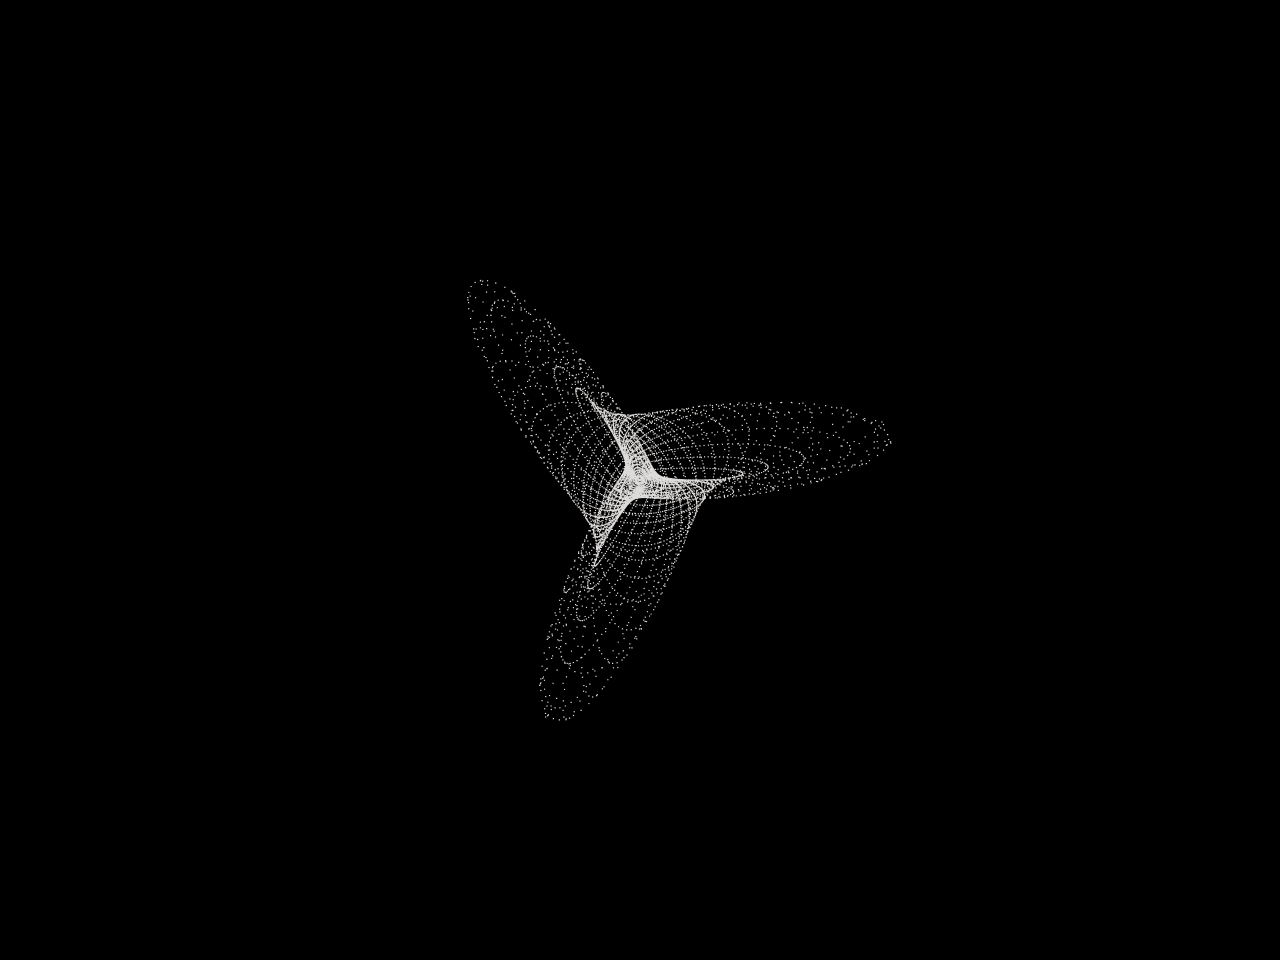
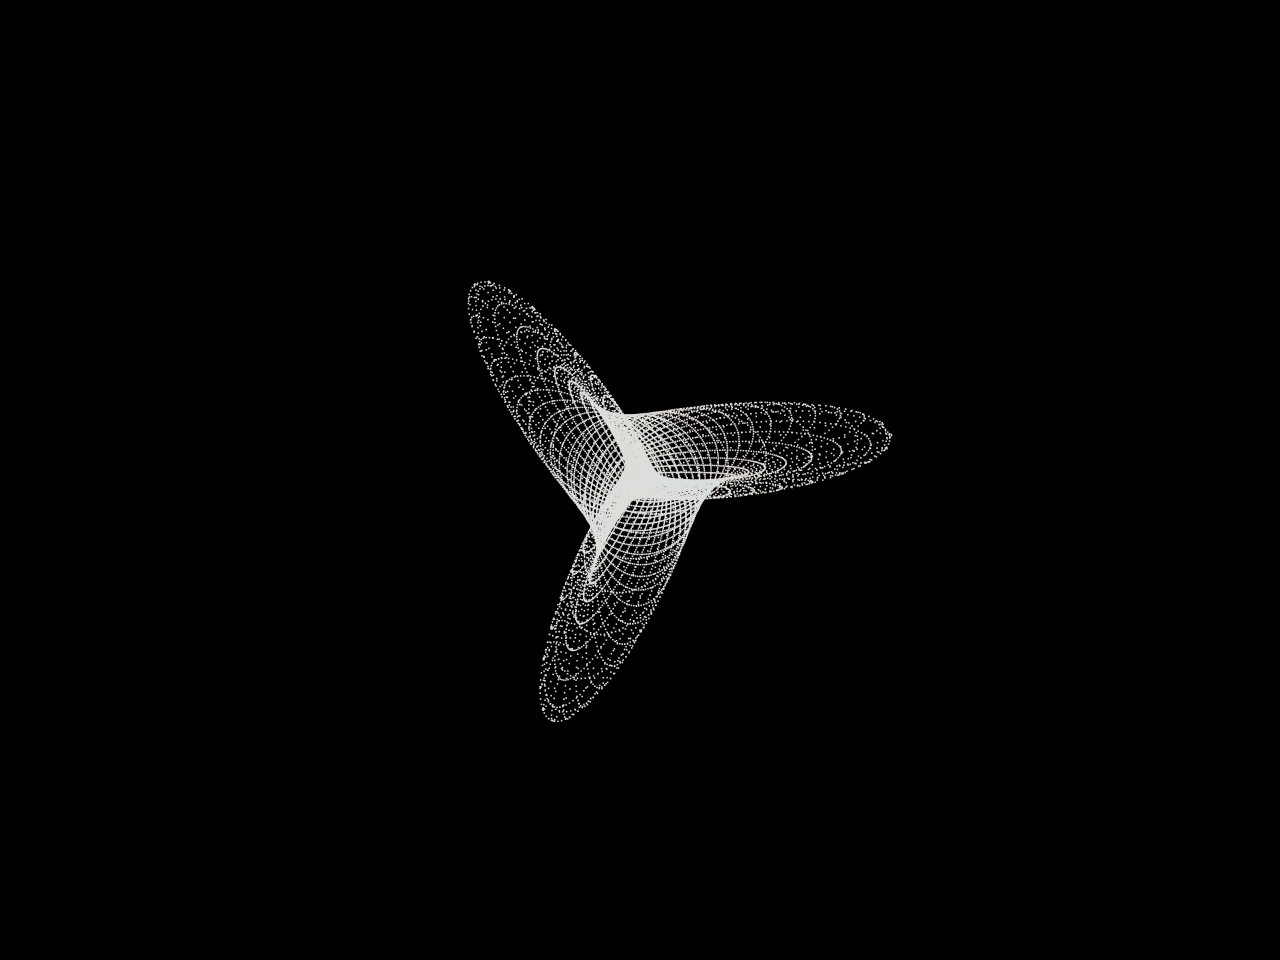
Dense Boy jury lines/isolines with UV ribbon colors.

Changed region(s): [[0.3438, 0.2812, 0.7188, 0.75]]

diff --git a/packages/frontend/src/utils/boySurface.ts b/packages/frontend/src/utils/boySurface.ts
@@ -148,6 +148,22 @@ function xyzColors(positions: Float32Array): Float32Array {
 	return colors
 }
 
+/** Coral → amber → teal along UV (punchier than xyz for points/lines). */
+function writeUvRibbon(colors: Float32Array, i: number, uN: number, vN: number) {
+	const t = Math.min(1, Math.max(0, 0.55 * uN + 0.45 * vN))
+	if (t < 0.5) {
+		const s = t / 0.5
+		colors[i] = 0.98 - 0.18 * s
+		colors[i + 1] = 0.32 + 0.5 * s
+		colors[i + 2] = 0.28 + 0.12 * s
+		return
+	}
+	const s = (t - 0.5) / 0.5
+	colors[i] = 0.8 - 0.58 * s
+	colors[i + 1] = 0.82 + 0.12 * s
+	colors[i + 2] = 0.4 + 0.52 * s
+}
+
 export function buildBoyMesh(): BoyMesh {
 	const uCount = U_RES + 1
 	const vCount = V_RES + 1
@@ -202,53 +218,67 @@ export function sampleBoyCloud(nu = 96, nv = 96): BoyCloud {
  * Row-major UV scan as one polyline (legacy line trail).
  * Odd rows reverse so the strip snakes continuously.
  */
-export function sampleBoyScanline(nu = 120, nv = 80): BoyCloud {
+export function sampleBoyScanline(nu = 200, nv = 140): BoyCloud {
 	const count = nu * nv
 	const positions = new Float32Array(count * 3)
+	const colors = new Float32Array(count * 3)
 	let k = 0
 	for (let iv = 0; iv < nv; iv++) {
-		const v = (Math.PI * iv) / (nv - 1)
+		const vN = nv <= 1 ? 0 : iv / (nv - 1)
+		const v = Math.PI * vN
 		const reverse = iv % 2 === 1
 		for (let t = 0; t < nu; t++) {
 			const iu = reverse ? nu - 1 - t : t
-			const u = (Math.PI * iu) / (nu - 1)
+			const uN = nu <= 1 ? 0 : iu / (nu - 1)
+			const u = Math.PI * uN
 			const p = boyPoint(u, v)
-			positions[k++] = p.x
-			positions[k++] = p.y
-			positions[k++] = p.z
+			positions[k] = p.x
+			positions[k + 1] = p.y
+			positions[k + 2] = p.z
+			writeUvRibbon(colors, k, uN, vN)
+			k += 3
 		}
 	}
 	centerAndScale(positions, TARGET_R)
-	return { positions, colors: xyzColors(positions), count }
+	return { positions, colors, count }
 }
 
 /** Constant-u and constant-v curves as a dense point wire. */
-export function sampleBoyIsolines(nu = 36, nv = 36, samples = 128): BoyCloud {
+export function sampleBoyIsolines(nu = 56, nv = 56, samples = 220): BoyCloud {
 	const count = (nu + nv) * samples
 	const positions = new Float32Array(count * 3)
+	const colors = new Float32Array(count * 3)
 	let k = 0
 	for (let iu = 0; iu < nu; iu++) {
-		const u = (Math.PI * iu) / (nu - 1)
+		const uN = nu <= 1 ? 0 : iu / (nu - 1)
+		const u = Math.PI * uN
 		for (let s = 0; s < samples; s++) {
-			const v = (Math.PI * s) / (samples - 1)
+			const vN = samples <= 1 ? 0 : s / (samples - 1)
+			const v = Math.PI * vN
 			const p = boyPoint(u, v)
-			positions[k++] = p.x
-			positions[k++] = p.y
-			positions[k++] = p.z
+			positions[k] = p.x
+			positions[k + 1] = p.y
+			positions[k + 2] = p.z
+			writeUvRibbon(colors, k, uN, vN)
+			k += 3
 		}
 	}
 	for (let iv = 0; iv < nv; iv++) {
-		const v = (Math.PI * iv) / (nv - 1)
+		const vN = nv <= 1 ? 0 : iv / (nv - 1)
+		const v = Math.PI * vN
 		for (let s = 0; s < samples; s++) {
-			const u = (Math.PI * s) / (samples - 1)
+			const uN = samples <= 1 ? 0 : s / (samples - 1)
+			const u = Math.PI * uN
 			const p = boyPoint(u, v)
-			positions[k++] = p.x
-			positions[k++] = p.y
-			positions[k++] = p.z
+			positions[k] = p.x
+			positions[k + 1] = p.y
+			positions[k + 2] = p.z
+			writeUvRibbon(colors, k, uN, vN)
+			k += 3
 		}
 	}
 	centerAndScale(positions, TARGET_R)
-	return { positions, colors: xyzColors(positions), count }
+	return { positions, colors, count }
 }
 
 export function buildBryantBoyMesh(): BoyMesh {

diff --git a/packages/frontend/src/pages/misc/boy_jury_isolines.tsx b/packages/frontend/src/pages/misc/boy_jury_isolines.tsx
@@ -10,7 +10,9 @@ import { sampleBoyIsolines } from '../../utils/boySurface'
 const BoyJuryIsolines = () => {
 	const dispatch = useAppDispatch()
 	const seeded = useRef(false)
-	const { calculateParticlesToDraw, updateProgressUI, checkCompletion } = useAnimationState()
+	const { calculateParticlesToDraw, updateProgressUI, checkCompletion } = useAnimationState({
+		baseSpeed: 32000,
+	})
 
 	const datData = useMemo(
 		(): TDatData => ({
@@ -27,7 +29,7 @@ const BoyJuryIsolines = () => {
 		void dispatch(setData({}))
 	}, [datData, dispatch])
 
-	const cloud = useMemo(() => sampleBoyIsolines(36, 36, 128), [])
+	const cloud = useMemo(() => sampleBoyIsolines(56, 56, 220), [])
 
 	const tick: TParticleProps<TData>['tick'] = (positions, colors, _state, delta) => {
 		if (!seeded.current) {
@@ -45,10 +47,11 @@ const BoyJuryIsolines = () => {
 		<Base<TData>
 			dimension={EDimensions.THREE_D}
 			numParticles={cloud.count}
-			pointSize={1.2}
+			pointSize={1.55}
 			tick={tick}
 			cameraPosition={[0, 0, 4.2]}
 			autoRotate={!isScreenshotMode()}
+			autoRotateSpeed={0.28}
 		/>
 	)
 }

diff --git a/packages/frontend/src/pages/misc/boy_jury_lines.tsx b/packages/frontend/src/pages/misc/boy_jury_lines.tsx
@@ -13,7 +13,7 @@ const BoyJuryLines = () => {
 	const dispatch = useAppDispatch()
 	const seeded = useRef(false)
 	const { calculateParticlesToDraw, updateProgressUI, checkCompletion } = useAnimationState({
-		baseSpeed: 14000,
+		baseSpeed: 28000,
 	})
 
 	const datData = useMemo(
@@ -31,7 +31,7 @@ const BoyJuryLines = () => {
 		void dispatch(setData({}))
 	}, [datData, dispatch])
 
-	const cloud = useMemo(() => sampleBoyScanline(120, 80), [])
+	const cloud = useMemo(() => sampleBoyScanline(200, 140), [])
 
 	const tick: TParticleProps<TData>['tick'] = (
 		positions: Float32Array,
@@ -56,7 +56,7 @@ const BoyJuryLines = () => {
 			numParticles={cloud.count}
 			tick={tick}
 			drawMode="line"
-			lineOpacity={0.85}
+			lineOpacity={0.92}
 			autoRotate={!isScreenshotMode()}
 			autoRotateSpeed={0.32}
 			cameraPosition={[0, 0, 4.2]}
